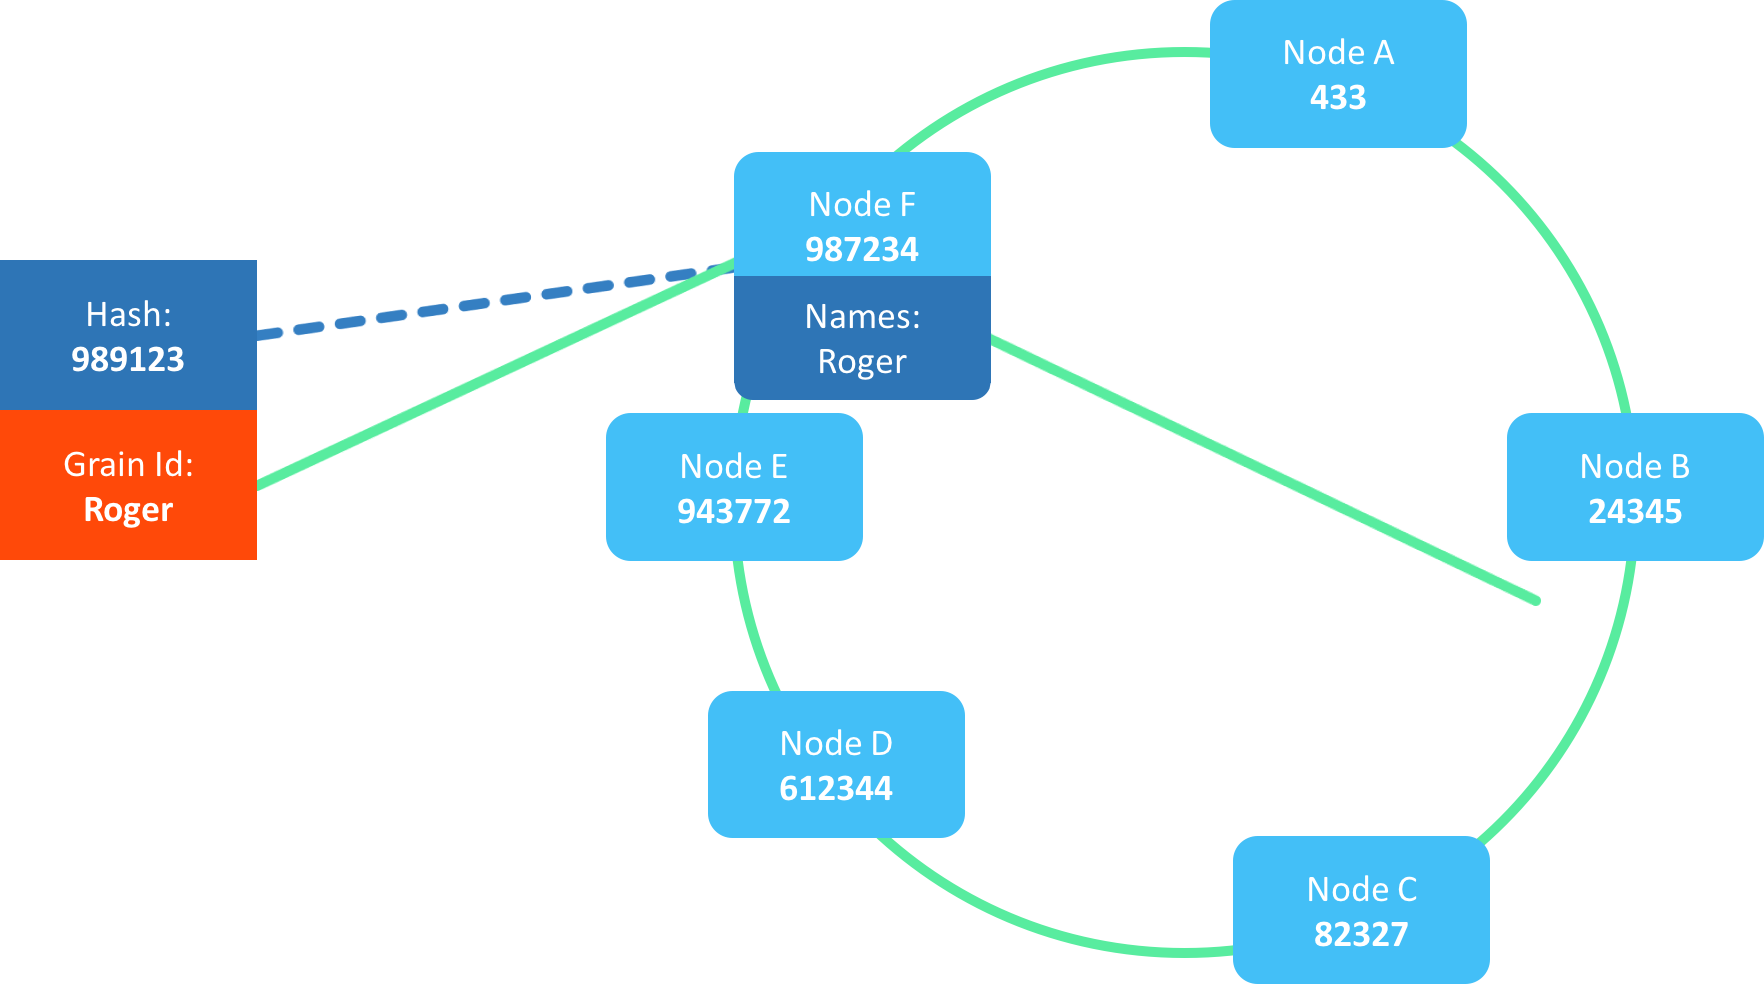
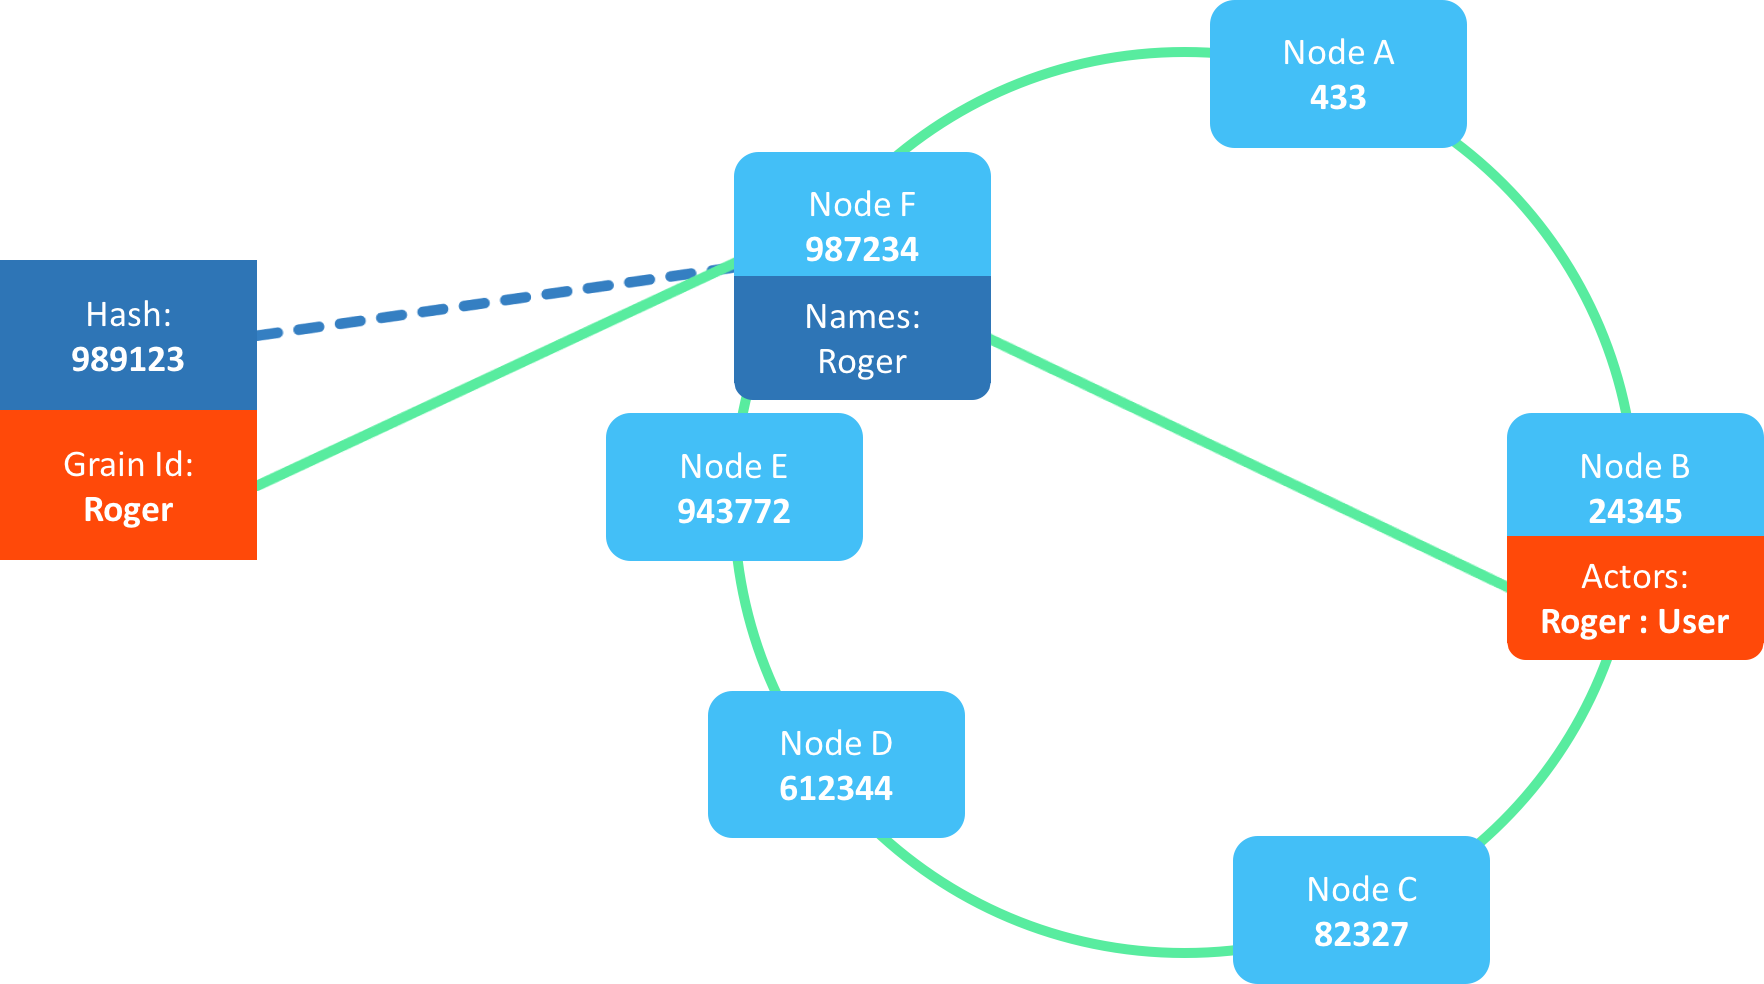
.

Changed region(s): [[0.8418, 0.5183, 1.0, 0.6707]]

diff --git a/src/docs/Features.md b/src/docs/Features.md
@@ -8,22 +8,28 @@ title: Features
 ## Message processing
 
 ## Concurrency
+
 - Message posting can be done concurrently
 - Message receive is done sequentially
 
 ### Queues
+
 Proto Actor provides two implementations of mailbox queues - an unbounded and a bounded. The unbounded queue is useful for X. The bounded queue is useful for Y.
 
 ### Dispatchers and invokers
+
 The mailbox requires two handlers to be registered, a dispatcher and an invoker. When an actor is spawned, the invoker will be the actor context, and the dispatcher is taken from the Props.
 
 #### Mailbox invoker
+
 When the mailbox pops a message from the queue, it hands over the message to the registered invoker to actually handle the message. For an actor, the actor's context will get the message and invoke the actor's receive method for processing. If an error occurs while the message is being processed, the mailbox will escalate the error to its registered invoker, so that it can take the appropriate action (e.g. restart the actor) and continue if possible.
 
 #### Mailbox dispatchers
+
 When the mailbox gets a message, it will schedule itself to process messages that are in the mailbox queues, using the dispatcher. The dispatcher is responsible for actually scheduling the processing to be run. The implementation of this varies by platform, e.g. in Go it is a simple invocation of a goroutine, whereas in C# the processing is handled by registering a Task to be run on the thread pool. The dispatcher is also responsible for limiting the throughput on each mailbox run. The mailbox will pick messages one by one in a single thread. By limiting the throughput of each run, the thread in use can be released so that other mailboxes can get scheduled to run.
 
 ## Statistics
+
 - User messages
 - System messages
 - Started event
@@ -32,6 +38,7 @@ When the mailbox gets a message, it will schedule itself to process messages tha
 # Actor
 
 ## Features
+
 - Create actor from function/method
 - Create actor from object factory
 - Spawn actor with automatic/prefixed/specific name
@@ -39,6 +46,7 @@ When the mailbox gets a message, it will schedule itself to process messages tha
 # Props
 
 ## Settings
+
 - Actor producer
 - Mailbox producer
 - Supervisor strategy
@@ -49,6 +57,7 @@ When the mailbox gets a message, it will schedule itself to process messages tha
 # Context
 
 ## Data
+
 - Parent PID
 - Self PID
 - Sender PID
@@ -57,6 +66,7 @@ When the mailbox gets a message, it will schedule itself to process messages tha
 - Current Actor
 
 ## Features
+
 - Respond to sender
 - Stash current message pending restart
 - Spawn child actor with automatic/prefixed/specific name
@@ -66,12 +76,14 @@ When the mailbox gets a message, it will schedule itself to process messages tha
 - Receive timeout 
 
 # ProcessRegistry
+
 - Get Process by PID
 - Add local Process with ID
 - Remove Process by PID
 - Generate next Process ID
 
 # Process
+
 - Send user message to Process
 - Send system message to Process
 - Stop Process
@@ -79,31 +91,37 @@ When the mailbox gets a message, it will schedule itself to process messages tha
 # Supervision
 
 ## Directives
+
 - Resume
 - Restart
 - Stop
 - Escalate
 
 ## Strategies
+
 - OneForOneStrategy applies directive to failed child
 
 # PID
 
 ## Features
+
 - Holds address (nonhost or remote address) and ID
 - Send user message
 - Send system message
 - Request
-- Request future 
+- Request future
 - Stop
 
 # Future process
+
 - Auxiliary process used to provide an awaitable future containing the response to a request
 
 # Dead letter process
+
 - Auxiliary process used to collect messages sent to non-existing processes
 
 # Routers
+
 - Group routers route message to a specified set of routees
 - Pool routers route messages to a set of routees of a specified size, and are created/managed by the router
 - Broadcast routers routes a message to all routees
@@ -112,18 +130,22 @@ When the mailbox gets a message, it will schedule itself to process messages tha
 - Round-robin routers routes messages to routees in a round-robin fashion
 
 ## Consistent hash routers
+
 - Routing is deterministic based on a hash computed by the message
 - Uses a hash ring so that if a routee is unavailable, another will be chosen automatically, and when the routee is back it will be used again
 
 ## Broadcast routers
+
 - Uses a special message RouterBroadcastMessage to route messages more efficiently when the routees are remote (?)
 
 ## Management messages
+
 - Add route
 - Get routees
 - Remove routee
 
 # Remote
+
 - Remote.Start() starts a remote actor server on a given address
 - RemoteProcess represents an actor on a remote actor server
 - Remote actors can be watched

diff --git a/src/docs/Grains.md b/src/docs/Grains.md
@@ -14,3 +14,65 @@ This offers us a unique way to optimize for data locality, while still offering 
 Just like everything else in Proto.Actor where we have re-used proven technologies such as Protobuf and gRPC, we do the same for clustering, we do not reinvent the wheel and create our own cluster mechanics.
 Instead, we leverage proven technologies such as Consul.
 
+This means that Consul manages the cluster formation:
+![Consul Cluster](images/ConsulCluster.png)
+
+On top of this, we attach the Proto.Actor members:
+![Proto Cluster](images/ProtoCluster.png)
+
+Each member gets a hash-code, this hash-code is based on host + port + unique id of the member.
+
+This means that we now have what is called a "hash ring".
+A hash ring can be to locate what member in a cluster should own certain resources.
+
+In this specific case, we want to talk to the actor named "Roger", which gives the hash-code 989123 (an example only)
+
+![Name Hash](images/NameHash.png)
+
+By matching the hash-code against the hash ring, we can see that the member closest to the given actor name is the member "E".
+
+![Name Owner](images/NameOwner.png)
+
+What is important to understand here is that the member "E" in this case, do not own the **actor**, just the **name** "Roger".
+
+The Actor itself is then spawned or "activated" somewhere in the cluster.
+This might seem strange at first, why do we need this two step structure for locating actors?
+
+![Actor Placement](images/ActorPlacement.png)
+
+The reason for this is to deal with topology changes.
+In the case members join or leave the cluster, the topology change, and the shape of the hash ring is altered slightly.
+
+This in turn means that the name of the actor, might now be owned by another node.
+And by having this two-step structure, we only need to transfer the ownership of the name itself and not the actor and all of its state.
+
+![Topology Change](images/TopologyChange.png)
+
+This model makes the cluster extremely robust to failures, only parts of the cluster will fail when a member leaves, and nothing will fail when a member joins the cluster.
+
+In this specific case, even if all members except B and F leaves, the specific actor here is still reachable.
+
+![Complete Failure](images/CompleteFailure.png)
+
+## Multiple Activations
+
+One drawback of this approach is what is known as **Multiple Activations**
+
+This can occur when the node that owns the name of an actor unexpectedly leaves the cluster.
+This leaves the actor activation orphaned somewhere in the cluster.
+
+Should someone now try to call this actor, a new node will be associated with the name, and the actor will be activated again somewhere in the cluster.
+
+This means that we now have two active instances of the same actor, one orphaned and one with a proper name lookup association.
+
+This *can* lead to issues if you rely on the actor concurrency constraint of one message at any given time.
+
+In many cases, this is not an issue, as the orphaned actor is now unreachable, the name lookup now points to another instance.
+Thus, no new messages will be sent to it.
+
+In case the orphaned actor have some behavior on its own, chances are that it might cause race conditions between its own state changes and the new activation.
+
+This can be prevented by persisting state in a database with some form of CAS operations, e.g. Couchbase.
+
+In case the two instances change any state, this can now be detected by CAS changes.
+
